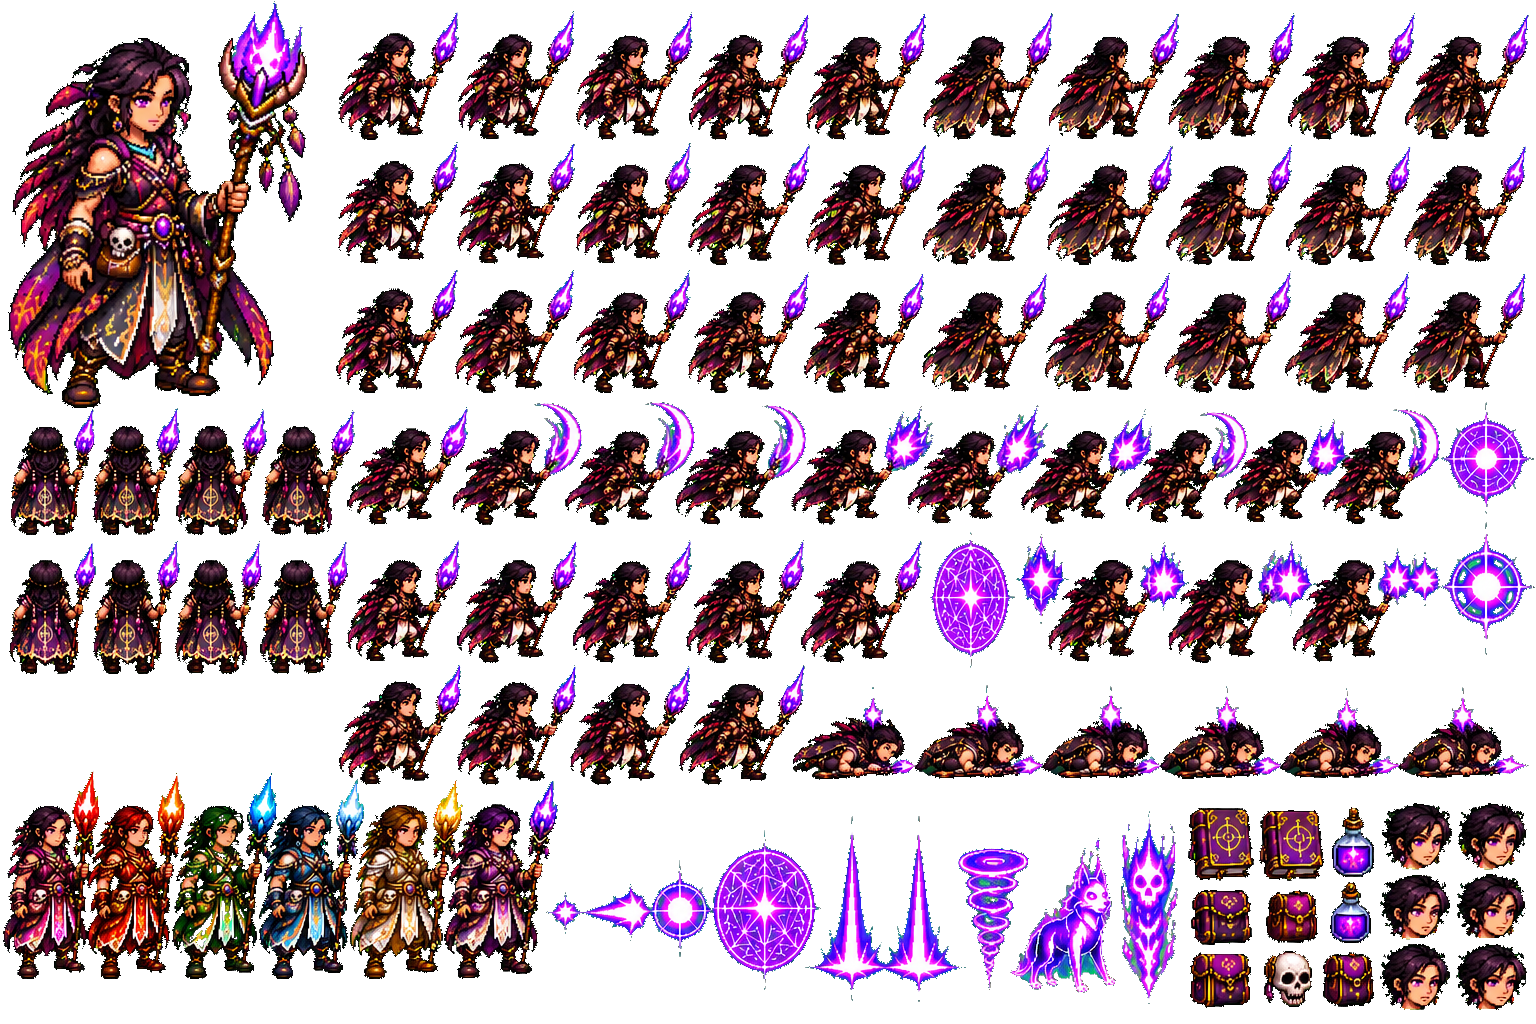
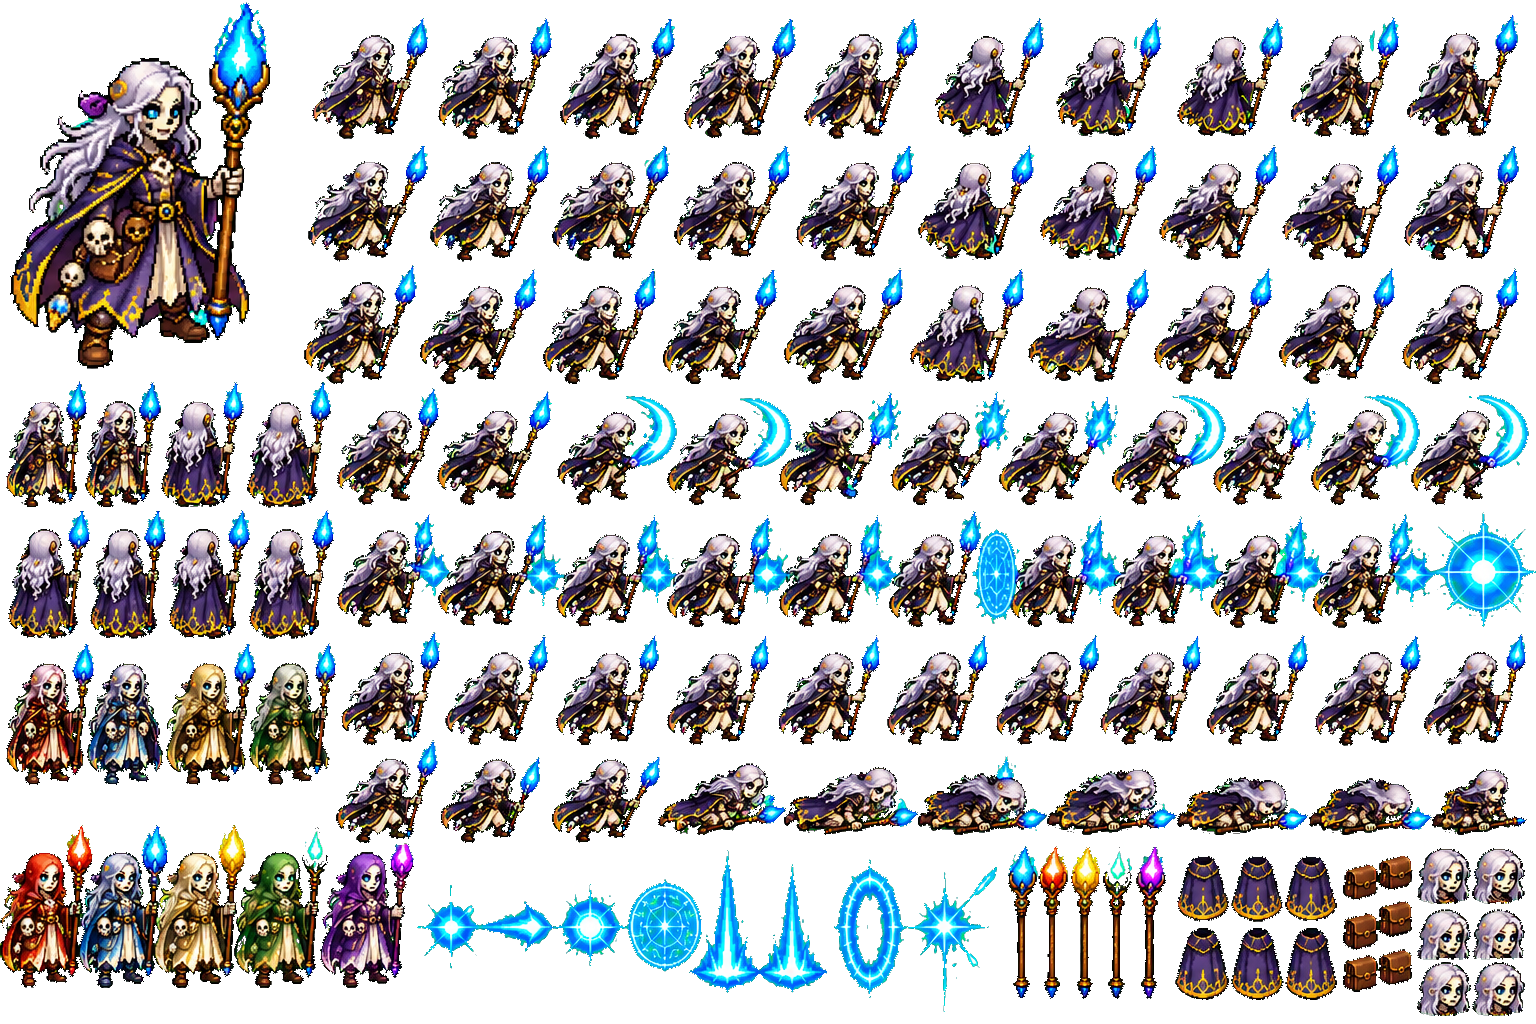
Merge undead into necromancer: white-haired woman is necro_f, dark-haired woman is the warlock woman
Claude-Session: https://claude.ai/code/session_01PobfxaWDpaQmrPZ2wpKgyE

diff --git a/deck/art/heroes/README.md b/deck/art/heroes/README.md
@@ -2,7 +2,7 @@
 
 Painted hero sheets, keyed from green screen to transparent PNG by `deck/tools/key_heroes.py`
 (the green originals go in `src/`, which git ignores). One file per look; keys match
-`PLAYER_LOOKS` in `deck/sprites.js`.
+`PLAYER_LOOKS` in `deck/sprites.js`. Undead and Necromancer are one class.
 
 | File | Look | Race / class | Notes |
 |---|---|---|---|
@@ -16,11 +16,11 @@ Painted hero sheets, keyed from green screen to transparent PNG by `deck/tools/k
 | `dwarf_m_bare.png` | dwarf_m (hatless) | Dwarf man | Labeled sheet, 8 directions, big beard |
 | `dwarf_m_bare_alt.png` | (spare) | Dwarf man | Long hair, short stubble |
 | `dwarf_f_bare.png` | dwarf_f (hatless) | Dwarf woman | Labeled sheet, 8 directions, braids |
-| `necro_m.png` | necro | Necromancer man | Skeleton |
-| `undead_f.png` | undead_f | Undead woman | |
+| `necro_m.png` | necro | Necromancer (undead) man | Skeleton |
 | `witch_f.png` | witch | Witch | Labeled sheet, 8 directions, hat and no-hat statics |
 | `warlock.png` | witch_m | Warlock | |
-| `necro_f.png` | necro_f | Necromancer woman | |
+| `necro_f.png` | necro_f | Necromancer (undead) woman | White hair, pale |
+| `warlock_f.png` | (spare) | Warlock woman | Matches the warlock sheet |
 | `shaman_m.png` | shaman_m | Shaman man | |
 | `shaman_f.png` | shaman_f | Shaman woman | |
 | `ranger_m.png` | ranger_m | Ranger man | |
@@ -43,7 +43,6 @@ Painted hero sheets, keyed from green screen to transparent PNG by `deck/tools/k
 ## Still missing
 
 - **Dwarf** with hat: only the hatless sheets so far.
-- **Undead man** (undead_m): no sheet; the skeleton is the necromancer man.
 - **Hatless sets** (`frontBare`, `backBare`, `animBare`): done for the wizard and both dwarves;
   human_f and witch_f have only static no-hat poses; no hatless art for the other looks.
 - **Back-view action** (cast, walk, hurt from behind): the unlabeled sheets show the back only
